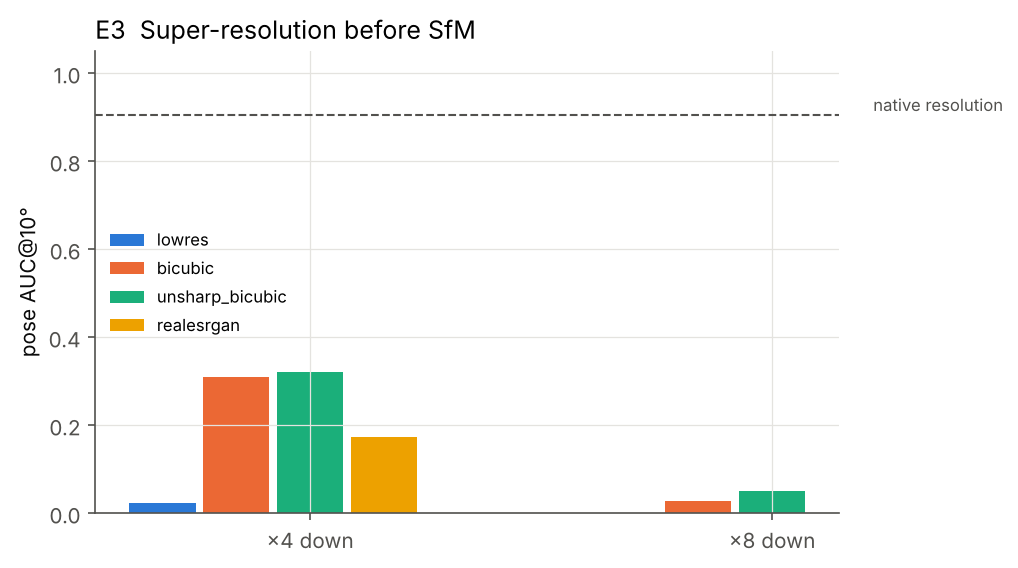
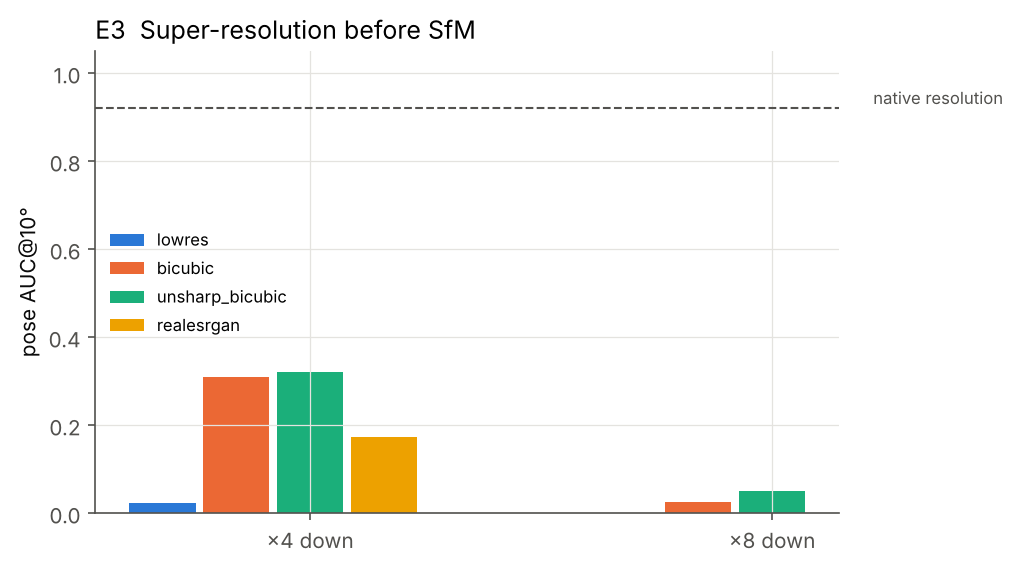
Update results
Claude-Session: https://claude.ai/code/session_01DwFUuxyVwkhujN2CBgQS9g

Changed region(s): [[0.0914, 0.1796, 0.8222, 0.2095], [0.8527, 0.1496, 0.9745, 0.2095]]

diff --git a/results/summary.md b/results/summary.md
@@ -5,7 +5,7 @@ Metric: pose AUC@10° over all input image pairs (unregistered = failure) and re
 
 ## Clean baseline
 
-18 runs, AUC@10 = 0.904 (std 0.194), registration 1.000.
+24 runs, AUC@10 = 0.920 (std 0.169), registration 1.000.
 
 
 ## E2a  Analytic corruptions
@@ -17,27 +17,27 @@ Metric: pose AUC@10° over all input image pairs (unregistered = failure) and re
 | contrast | 1 | 2 | 0.952 [0.93, 0.98] | 1.000 [1.00, 1.00] |
 | contrast | 3 | 2 | 0.346 [0.11, 0.58] | 0.565 [0.35, 0.78] |
 | contrast | 5 | 2 | 0.000 [0.00, 0.00] | 0.000 [0.00, 0.00] |
-| gaussian_blur | 1 | 2 | 0.930 [0.92, 0.94] | 1.000 [1.00, 1.00] |
-| gaussian_blur | 3 | 2 | 0.126 [0.09, 0.16] | 0.372 [0.33, 0.42] |
-| gaussian_blur | 5 | 2 | 0.000 [0.00, 0.00] | 0.000 [0.00, 0.00] |
-| gaussian_noise | 1 | 2 | 0.784 [0.61, 0.96] | 1.000 [1.00, 1.00] |
-| gaussian_noise | 3 | 2 | 0.270 [0.09, 0.45] | 0.552 [0.33, 0.78] |
-| gaussian_noise | 5 | 2 | 0.001 [0.00, 0.00] | 0.045 [0.04, 0.05] |
-| jpeg | 1 | 2 | 0.542 [0.49, 0.60] | 1.000 [1.00, 1.00] |
-| jpeg | 3 | 2 | 0.156 [0.06, 0.25] | 0.468 [0.28, 0.66] |
-| jpeg | 5 | 2 | 0.000 [0.00, 0.00] | 0.045 [0.04, 0.05] |
-| motion_blur | 1 | 2 | 0.616 [0.58, 0.65] | 0.970 [0.94, 1.00] |
-| motion_blur | 3 | 2 | 0.000 [0.00, 0.00] | 0.055 [0.05, 0.06] |
-| motion_blur | 5 | 2 | 0.000 [0.00, 0.00] | 0.000 [0.00, 0.00] |
-| pixelate | 1 | 2 | 0.953 [0.94, 0.96] | 1.000 [1.00, 1.00] |
-| pixelate | 3 | 2 | 0.289 [0.11, 0.47] | 0.535 [0.35, 0.72] |
-| pixelate | 5 | 2 | 0.040 [0.03, 0.05] | 0.215 [0.18, 0.25] |
-| shot_noise | 1 | 2 | 0.294 [0.11, 0.48] | 0.535 [0.35, 0.72] |
-| shot_noise | 3 | 2 | 0.041 [0.03, 0.05] | 0.225 [0.20, 0.25] |
-| shot_noise | 5 | 2 | 0.000 [0.00, 0.00] | 0.020 [0.00, 0.04] |
-| underexpose | 1 | 2 | 0.970 [0.97, 0.97] | 1.000 [1.00, 1.00] |
-| underexpose | 3 | 2 | 0.630 [0.57, 0.69] | 0.910 [0.82, 1.00] |
-| underexpose | 5 | 2 | 0.125 [0.05, 0.20] | 0.355 [0.25, 0.46] |
+| gaussian_blur | 1 | 3 | 0.919 [0.90, 0.94] | 1.000 [1.00, 1.00] |
+| gaussian_blur | 3 | 3 | 0.137 [0.09, 0.16] | 0.388 [0.33, 0.42] |
+| gaussian_blur | 5 | 3 | 0.000 [0.00, 0.00] | 0.000 [0.00, 0.00] |
+| gaussian_noise | 1 | 3 | 0.726 [0.61, 0.96] | 1.000 [1.00, 1.00] |
+| gaussian_noise | 3 | 3 | 0.337 [0.09, 0.47] | 0.608 [0.33, 0.78] |
+| gaussian_noise | 5 | 3 | 0.000 [0.00, 0.00] | 0.043 [0.04, 0.05] |
+| jpeg | 1 | 3 | 0.681 [0.49, 0.96] | 1.000 [1.00, 1.00] |
+| jpeg | 3 | 3 | 0.185 [0.06, 0.25] | 0.505 [0.28, 0.66] |
+| jpeg | 5 | 3 | 0.000 [0.00, 0.00] | 0.043 [0.04, 0.05] |
+| motion_blur | 1 | 3 | 0.599 [0.57, 0.65] | 0.907 [0.78, 1.00] |
+| motion_blur | 3 | 3 | 0.000 [0.00, 0.00] | 0.050 [0.04, 0.06] |
+| motion_blur | 5 | 3 | 0.000 [0.00, 0.00] | 0.000 [0.00, 0.00] |
+| pixelate | 1 | 3 | 0.951 [0.94, 0.96] | 1.000 [1.00, 1.00] |
+| pixelate | 3 | 3 | 0.348 [0.11, 0.47] | 0.597 [0.35, 0.72] |
+| pixelate | 5 | 3 | 0.036 [0.03, 0.05] | 0.203 [0.18, 0.25] |
+| shot_noise | 1 | 3 | 0.373 [0.11, 0.53] | 0.670 [0.35, 0.94] |
+| shot_noise | 3 | 3 | 0.087 [0.03, 0.18] | 0.297 [0.20, 0.44] |
+| shot_noise | 5 | 3 | 0.000 [0.00, 0.00] | 0.027 [0.00, 0.04] |
+| underexpose | 1 | 3 | 0.849 [0.61, 0.97] | 1.000 [1.00, 1.00] |
+| underexpose | 3 | 3 | 0.609 [0.57, 0.69] | 0.867 [0.78, 1.00] |
+| underexpose | 5 | 3 | 0.148 [0.05, 0.20] | 0.390 [0.25, 0.46] |
 
 
 ## E2b  Generative corruptions
@@ -46,9 +46,9 @@ Metric: pose AUC@10° over all input image pairs (unregistered = failure) and re
 
 | perturb | severity | n | auc@10 | reg_frac |
 |---|---|---|---|---|
-| blackout | 1 | 2 | 0.975 [0.97, 0.98] | 1.000 [1.00, 1.00] |
-| blackout | 3 | 2 | 0.466 [0.38, 0.56] | 0.703 [0.62, 0.78] |
-| blackout | 5 | 2 | 0.188 [0.08, 0.30] | 0.440 [0.30, 0.58] |
+| blackout | 1 | 4 | 0.970 [0.96, 0.98] | 1.000 [1.00, 1.00] |
+| blackout | 3 | 4 | 0.477 [0.39, 0.56] | 0.709 [0.64, 0.78] |
+| blackout | 5 | 4 | 0.241 [0.09, 0.39] | 0.487 [0.32, 0.65] |
 
 
 ## E1s  Synthetic weather incl. desert
@@ -86,13 +86,13 @@ Metric: pose AUC@10° over all input image pairs (unregistered = failure) and re
 
 | severity | method | n | auc@10 | reg_frac |
 |---|---|---|---|---|
-| 4 | bicubic | 2 | 0.309 [0.11, 0.51] | 0.545 [0.35, 0.74] |
-| 4 | lowres | 2 | 0.023 [0.00, 0.05] | 0.125 [0.00, 0.25] |
+| 4 | bicubic | 4 | 0.309 [0.11, 0.51] | 0.545 [0.35, 0.74] |
+| 4 | lowres | 4 | 0.023 [0.00, 0.05] | 0.125 [0.00, 0.25] |
 | 4 | realesrgan | 1 | 0.174 | 0.440 |
-| 4 | unsharp_bicubic | 2 | 0.320 [0.11, 0.53] | 0.555 [0.35, 0.76] |
-| 8 | bicubic | 2 | 0.027 [0.00, 0.05] | 0.145 [0.04, 0.25] |
-| 8 | lowres | 2 | 0.000 [0.00, 0.00] | 0.037 [0.00, 0.07] |
-| 8 | unsharp_bicubic | 2 | 0.052 [0.05, 0.05] | 0.245 [0.24, 0.25] |
+| 4 | unsharp_bicubic | 4 | 0.320 [0.11, 0.53] | 0.555 [0.35, 0.76] |
+| 8 | bicubic | 4 | 0.026 [0.00, 0.05] | 0.145 [0.04, 0.25] |
+| 8 | lowres | 4 | 0.000 [0.00, 0.00] | 0.037 [0.00, 0.07] |
+| 8 | unsharp_bicubic | 4 | 0.051 [0.05, 0.05] | 0.245 [0.24, 0.25] |
 
 
 ## E4  Crowds
@@ -118,22 +118,22 @@ Metric: pose AUC@10° over all input image pairs (unregistered = failure) and re
 
 | perturb | frac | n | auc@10 | reg_frac |
 |---|---|---|---|---|
-| clean | 1.000 | 2 | 0.975 [0.97, 0.98] | 1.000 [1.00, 1.00] |
-| crowd | 0.100 | 2 | 0.835 [0.72, 0.95] | 1.000 [1.00, 1.00] |
-| crowd | 0.250 | 2 | 0.587 [0.56, 0.61] | 1.000 [1.00, 1.00] |
-| crowd | 0.500 | 2 | 0.271 [0.09, 0.45] | 0.825 [0.65, 1.00] |
-| crowd | 0.750 | 2 | 0.111 [0.04, 0.18] | 0.938 [0.88, 1.00] |
-| crowd | 1.000 | 2 | 0.014 [0.00, 0.03] | 1.000 [1.00, 1.00] |
-| motion_blur | 0.100 | 2 | 0.633 [0.53, 0.73] | 0.900 [0.90, 0.90] |
-| motion_blur | 0.250 | 2 | 0.215 [0.11, 0.32] | 0.465 [0.35, 0.58] |
-| motion_blur | 0.500 | 2 | 0.005 [0.00, 0.00] | 0.090 [0.08, 0.10] |
-| motion_blur | 0.750 | 2 | 0.002 [0.00, 0.00] | 0.068 [0.06, 0.07] |
-| motion_blur | 1.000 | 2 | 0.000 [0.00, 0.00] | 0.025 [0.00, 0.05] |
-| night | 0.100 | 2 | 0.807 [0.69, 0.92] | 1.000 [1.00, 1.00] |
-| night | 0.250 | 2 | 0.630 [0.57, 0.69] | 0.890 [0.78, 1.00] |
-| night | 0.500 | 2 | 0.212 [0.11, 0.31] | 0.465 [0.35, 0.58] |
-| night | 0.750 | 2 | 0.142 [0.11, 0.17] | 0.395 [0.35, 0.44] |
-| night | 1.000 | 2 | 0.137 [0.09, 0.18] | 0.383 [0.33, 0.44] |
+| clean | 1.000 | 4 | 0.971 [0.96, 0.98] | 1.000 [1.00, 1.00] |
+| crowd | 0.100 | 4 | 0.797 [0.63, 0.96] | 0.938 [0.81, 1.00] |
+| crowd | 0.250 | 4 | 0.653 [0.55, 0.82] | 1.000 [1.00, 1.00] |
+| crowd | 0.500 | 4 | 0.300 [0.16, 0.44] | 0.870 [0.73, 0.99] |
+| crowd | 0.750 | 4 | 0.133 [0.06, 0.21] | 0.958 [0.90, 0.99] |
+| crowd | 1.000 | 4 | 0.026 [0.01, 0.04] | 0.994 [0.98, 1.00] |
+| motion_blur | 0.100 | 4 | 0.639 [0.52, 0.75] | 0.856 [0.77, 0.90] |
+| motion_blur | 0.250 | 4 | 0.282 [0.13, 0.45] | 0.522 [0.38, 0.67] |
+| motion_blur | 0.500 | 4 | 0.028 [0.00, 0.07] | 0.150 [0.09, 0.27] |
+| motion_blur | 0.750 | 4 | 0.004 [0.00, 0.01] | 0.079 [0.07, 0.09] |
+| motion_blur | 1.000 | 4 | 0.000 [0.00, 0.00] | 0.013 [0.00, 0.04] |
+| night | 0.100 | 4 | 0.886 [0.76, 0.96] | 1.000 [1.00, 1.00] |
+| night | 0.250 | 4 | 0.702 [0.58, 0.87] | 0.889 [0.78, 1.00] |
+| night | 0.500 | 4 | 0.301 [0.16, 0.48] | 0.552 [0.41, 0.71] |
+| night | 0.750 | 4 | 0.188 [0.11, 0.29] | 0.440 [0.35, 0.55] |
+| night | 1.000 | 4 | 0.099 [0.06, 0.16] | 0.321 [0.25, 0.40] |
 
 
 ## E6  Methods
@@ -143,8 +143,8 @@ Metric: pose AUC@10° over all input image pairs (unregistered = failure) and re
 | condition         |   sift+global |   sift+incremental |
 |:------------------|--------------:|-------------------:|
 | clean_s0          |         0.4   |              0.962 |
-| crowd_s4          |         0     |              0.099 |
-| fog_s5            |         0.309 |              0.19  |
+| crowd_s4          |         0.006 |              0.099 |
+| fog_s5            |         0.313 |              0.19  |
 | gaussian_noise_s4 |         0.215 |              0.108 |
 | motion_blur_s3    |         0.058 |              0     |
 | night_s3          |         0.374 |              0.369 |
@@ -156,33 +156,33 @@ Metric: pose AUC@10° over all input image pairs (unregistered = failure) and re
 
 | stratum | n | auc@10 | reg_frac |
 |---|---|---|---|
-| sunny | 19 | 0.771 [0.57, 0.93] | 0.789 [0.58, 0.95] |
-| overcast | 12 | 0.570 [0.32, 0.82] | 0.588 [0.34, 0.84] |
-| snow_ground | 11 | 0.877 [0.70, 0.98] | 0.909 [0.73, 1.00] |
-| snowfall | 3 | 0.652 [0.00, 0.98] | 0.667 [0.00, 1.00] |
-| rain | 8 | 0.982 [0.98, 0.99] | 1.000 [1.00, 1.00] |
-| night | 4 | 0.021 [0.00, 0.06] | 0.530 [0.27, 0.83] |
+| sunny | 57 | 0.736 [0.62, 0.84] | 0.756 [0.63, 0.86] |
+| overcast | 36 | 0.539 [0.38, 0.70] | 0.557 [0.39, 0.72] |
+| snow_ground | 33 | 0.880 [0.77, 0.96] | 0.909 [0.79, 1.00] |
+| snowfall | 9 | 0.652 [0.33, 0.98] | 0.667 [0.33, 1.00] |
+| rain | 24 | 0.866 [0.75, 0.98] | 0.960 [0.88, 1.00] |
+| night | 12 | 0.023 [0.01, 0.04] | 0.511 [0.34, 0.69] |
 
 
 Per sequence:
 
 | stratum | seq | n | auc@10 | reg_frac |
 |---|---|---|---|---|
-| night | boreas-2021-09-14-20-00 | 4 | 0.021 [0.00, 0.06] | 0.530 [0.27, 0.83] |
-| overcast | boreas-2020-11-26-13-58 | 4 | 0.726 [0.24, 0.97] | 0.762 [0.29, 1.00] |
-| overcast | boreas-2021-01-19-15-08 | 4 | 0.737 [0.25, 0.98] | 0.750 [0.25, 1.00] |
-| overcast | boreas-2021-11-16-14-10 | 4 | 0.247 [0.00, 0.74] | 0.250 [0.00, 0.75] |
-| rain | boreas-2021-04-29-15-55 | 4 | 0.982 [0.98, 0.99] | 1.000 [1.00, 1.00] |
-| rain | boreas-2021-07-20-17-33 | 4 | 0.983 [0.98, 0.98] | 1.000 [1.00, 1.00] |
-| snow_ground | boreas-2020-12-01-13-26 | 4 | 0.956 [0.92, 0.98] | 1.000 [1.00, 1.00] |
-| snow_ground | boreas-2021-01-15-12-17 | 3 | 0.975 [0.95, 0.99] | 1.000 [1.00, 1.00] |
-| snow_ground | boreas-2021-02-02-14-07 | 4 | 0.724 [0.24, 0.98] | 0.750 [0.25, 1.00] |
-| snowfall | boreas-2021-01-26-11-22 | 3 | 0.652 [0.00, 0.98] | 0.667 [0.00, 1.00] |
-| sunny | boreas-2020-12-18-13-44 | 3 | 0.983 [0.98, 0.98] | 1.000 [1.00, 1.00] |
-| sunny | boreas-2021-04-08-12-44 | 4 | 0.736 [0.25, 0.99] | 0.750 [0.25, 1.00] |
-| sunny | boreas-2021-06-03-16-00 | 4 | 0.734 [0.24, 0.98] | 0.750 [0.25, 1.00] |
-| sunny | boreas-2021-08-05-13-34 | 4 | 0.490 [0.00, 0.98] | 0.500 [0.00, 1.00] |
-| sunny | boreas-2021-11-23-14-27 | 4 | 0.966 [0.94, 0.98] | 1.000 [1.00, 1.00] |
+| night | boreas-2021-09-14-20-00 | 12 | 0.023 [0.01, 0.04] | 0.511 [0.34, 0.69] |
+| overcast | boreas-2020-11-26-13-58 | 12 | 0.798 [0.56, 0.96] | 0.838 [0.59, 1.00] |
+| overcast | boreas-2021-01-19-15-08 | 12 | 0.655 [0.41, 0.90] | 0.667 [0.42, 0.92] |
+| overcast | boreas-2021-11-16-14-10 | 12 | 0.165 [0.00, 0.41] | 0.167 [0.00, 0.42] |
+| rain | boreas-2021-04-29-15-55 | 12 | 0.906 [0.75, 0.99] | 1.000 [1.00, 1.00] |
+| rain | boreas-2021-07-20-17-33 | 12 | 0.825 [0.61, 0.98] | 0.921 [0.76, 1.00] |
+| snow_ground | boreas-2020-12-01-13-26 | 12 | 0.954 [0.93, 0.97] | 1.000 [1.00, 1.00] |
+| snow_ground | boreas-2021-01-15-12-17 | 9 | 0.975 [0.97, 0.99] | 1.000 [1.00, 1.00] |
+| snow_ground | boreas-2021-02-02-14-07 | 12 | 0.733 [0.49, 0.97] | 0.750 [0.50, 1.00] |
+| snowfall | boreas-2021-01-26-11-22 | 9 | 0.652 [0.33, 0.98] | 0.667 [0.33, 1.00] |
+| sunny | boreas-2020-12-18-13-44 | 9 | 0.983 [0.98, 0.98] | 1.000 [1.00, 1.00] |
+| sunny | boreas-2021-04-08-12-44 | 12 | 0.818 [0.57, 0.98] | 0.838 [0.60, 1.00] |
+| sunny | boreas-2021-06-03-16-00 | 12 | 0.567 [0.32, 0.81] | 0.588 [0.33, 0.84] |
+| sunny | boreas-2021-08-05-13-34 | 12 | 0.409 [0.16, 0.73] | 0.417 [0.17, 0.75] |
+| sunny | boreas-2021-11-23-14-27 | 12 | 0.966 [0.95, 0.98] | 1.000 [1.00, 1.00] |
 
 
 ## E1-gap  Synthetic weather applied to the sunny Boreas runs
@@ -212,8 +212,8 @@ Per sequence:
 
 | stratum | n | query_reg | cross_auc@10 |
 |---|---|---|---|
-| sunny | 15 | 1.000 [1.00, 1.00] | 0.903 [0.84, 0.94] |
-| overcast | 12 | 1.000 [1.00, 1.00] | 0.889 [0.78, 0.95] |
+| sunny | 21 | 1.000 [1.00, 1.00] | 0.910 [0.86, 0.94] |
+| overcast | 17 | 1.000 [1.00, 1.00] | 0.905 [0.82, 0.95] |
 | snow_ground | 11 | 0.914 [0.74, 1.00] | 0.795 [0.59, 0.95] |
 | snowfall | 3 | 0.867 [0.60, 1.00] | 0.772 [0.46, 0.94] |
 | rain | 8 | 0.875 [0.62, 1.00] | 0.827 [0.59, 0.95] |
